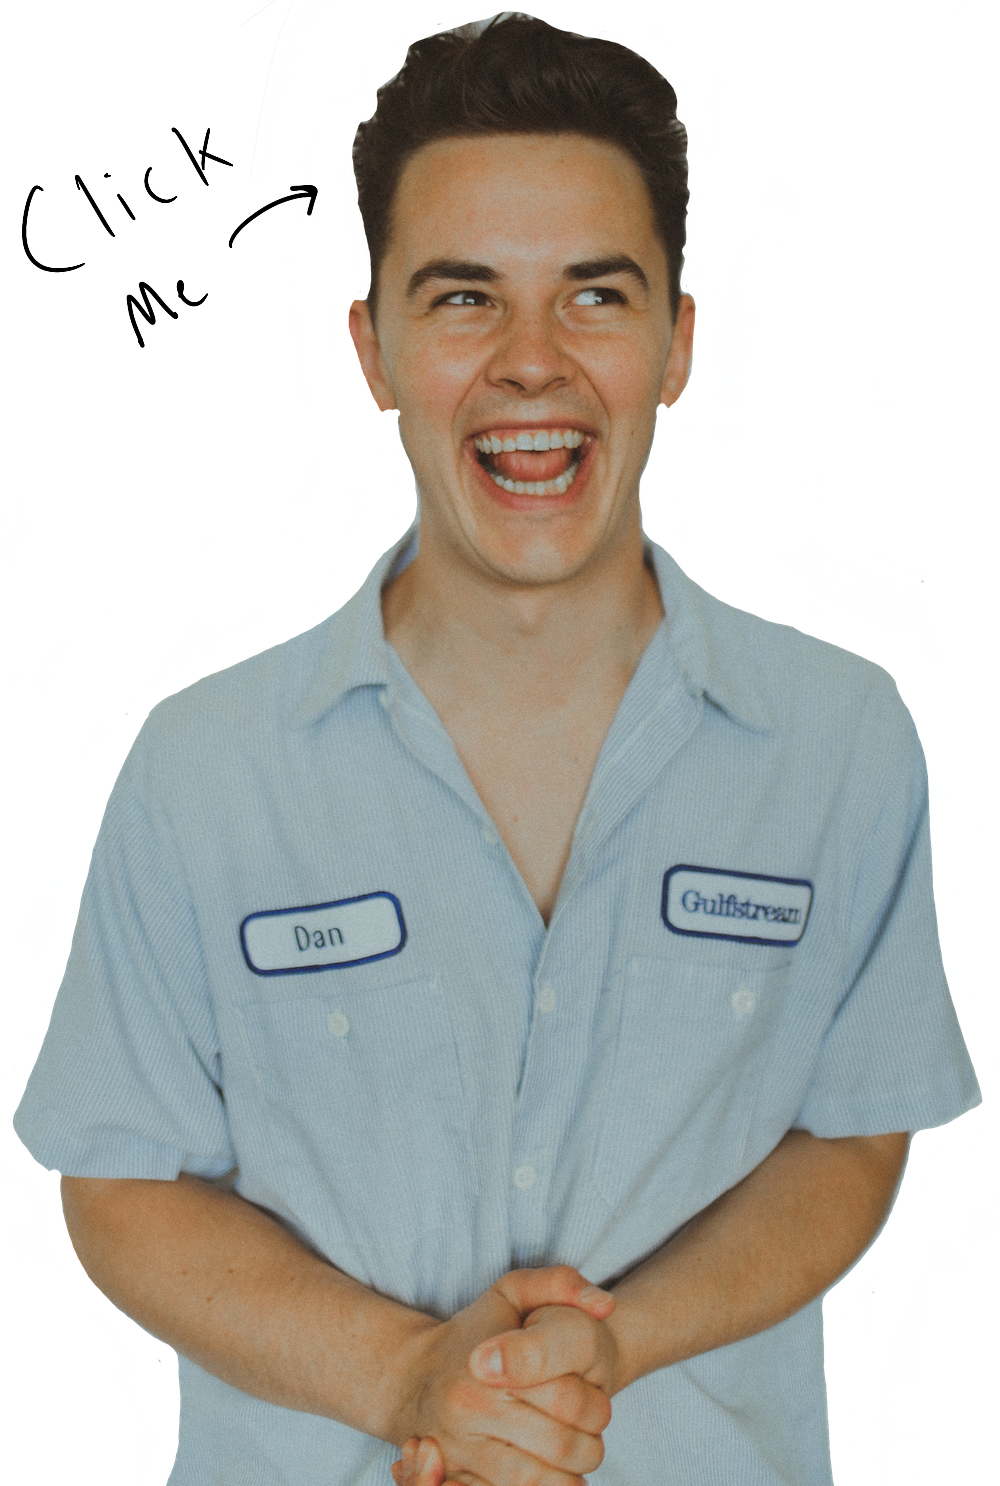
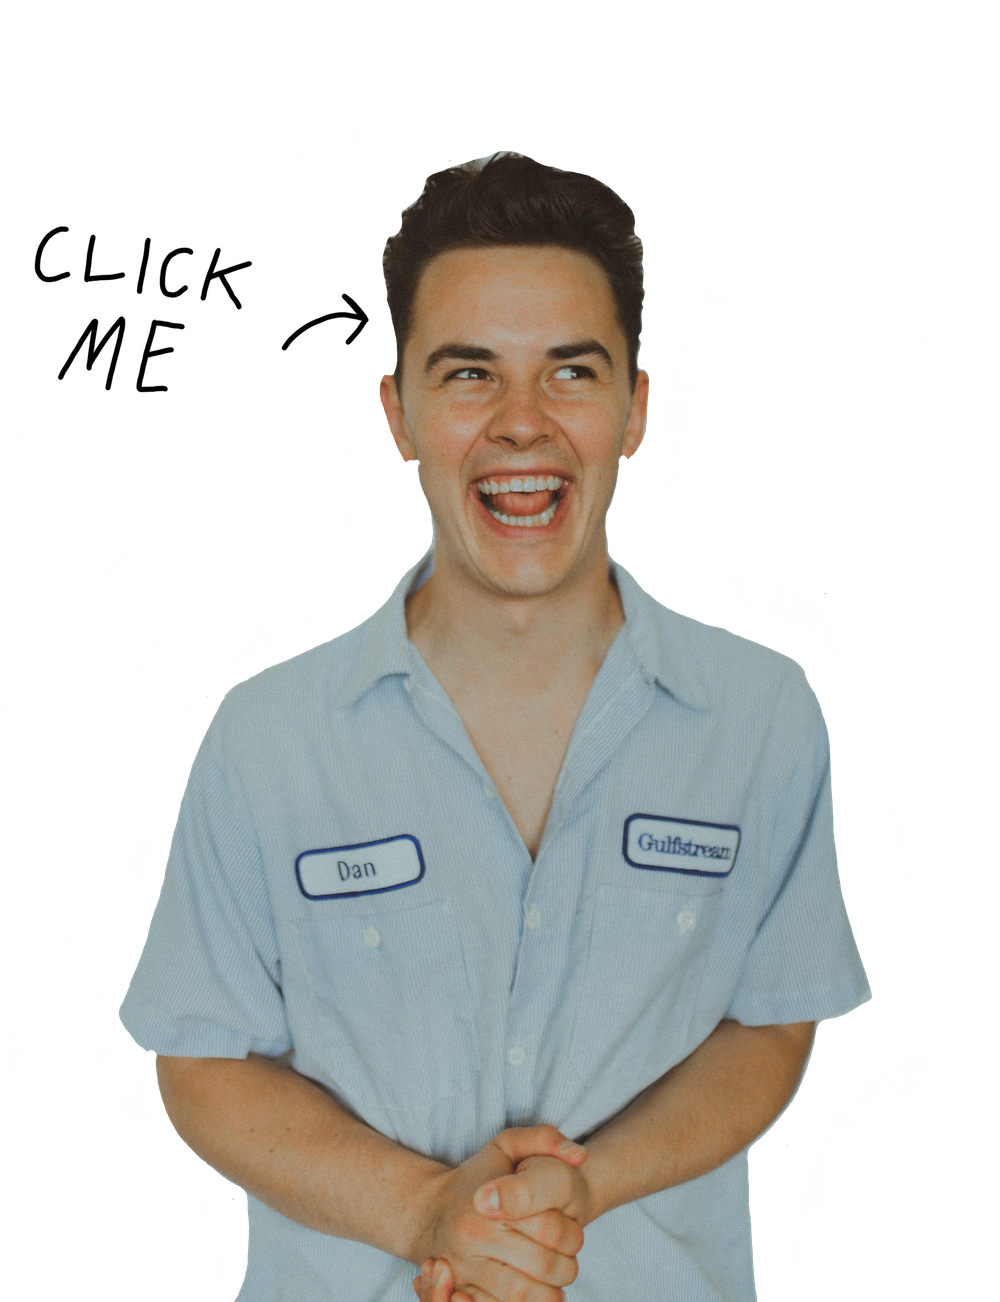
adding hand written notes, upating videos page and navbar

diff --git a/src/pages/Home/MainHeader/index.jsx b/src/pages/Home/MainHeader/index.jsx
@@ -1,14 +1,18 @@
-import React, { useState, useRef } from "react";
+import React, { useState, useRef, useEffect } from "react";
 import "./style.css";
 import styled from "styled-components";
-import { phoneOnly } from "../../../util/breakpoints";
+import { phoneOnly, tabletOnly } from "../../../util/breakpoints";
 import { MainTheme } from "../../../styles/colors";
 import Container from "react-bootstrap/Container";
 import MainVideo from "../MainVideo";
 import Col from "react-bootstrap/Col";
 import Row from "react-bootstrap/Row";
+import { useWindowSize } from "../../../util/hooks";
 import { motion } from "framer-motion";
 import MainBtn from "./MainBtn";
+import workImg from "../../../assets/images/work.png";
+import mobileWorkImg from "../../../assets/images/mobile-work3.png";
+import { phoneWidthMax } from "../../../util/breakpoints";
 
 const MainContainer = styled(Container)`
   text-align: center;
@@ -40,6 +44,22 @@ const Title = styled(motion.h1)`
    `)}
 `;
 
+const WorkImg = styled.img`
+  position: absolute;
+  height: 150px;
+  margin-top: 80px;
+  margin-left: -100px;
+  ${phoneOnly(`
+    height: 120px;
+    margin-left: -200px;
+    margin-top: 60px;
+`)}
+  ${tabletOnly(`
+height: 120px;
+margin-left: -250px;
+margin-top: 80px;
+`)}
+`;
 const SubTitle = styled(motion.h3)`
   font-size: 30px;
   color: ${MainTheme.cream};
@@ -76,7 +96,14 @@ margin-top:140px
 `;
 
 function MainHeader(props) {
+  const size = useWindowSize();
   const [videoOpen, toggleVideo] = useState(false);
+  const [isMobile, setIsMobile] = useState(size.width < phoneWidthMax);
+
+  useEffect(() => {
+    setIsMobile(size.width < 1200);
+  }, [size]);
+
   const aboutBtn = useRef(null);
   const watchBtn = useRef(null);
   function fix() {
@@ -154,8 +181,7 @@ function MainHeader(props) {
                 animate={{ x: [400, 0] }}
                 transition={{ duration: 0.5 }}
               >
-                {" "}
-                Comedy Writer, Improviser, and Stand-Up{" "}
+                Comedian, Writer, Actor
               </SubTitle>
             </Col>
           </Row>
@@ -188,6 +214,7 @@ function MainHeader(props) {
                     window.location = "/contact";
                   }}
                 />
+                <WorkImg src={isMobile ? mobileWorkImg : workImg} />
               </Col>
             </Row>
           </motion.div>

diff --git a/src/pages/About/index.jsx b/src/pages/About/index.jsx
@@ -8,12 +8,14 @@ import { MainTheme } from "../../styles/colors";
 import {
   phoneOnly,
   phoneWidthMax,
-  tabletAndPhoneOnly
+  tabletAndPhoneOnly,
+  tabletOnly
 } from "../../util/breakpoints";
 import { useWindowSize } from "../../util/hooks";
 import { HiOutlineMail, HiOutlinePhone } from "react-icons/hi";
 import { motion } from "framer-motion";
-import ColImg2 from "../../assets/images/colin_with_click.png";
+import clickImg from "../../assets/images/click_me.png";
+import ColImg3 from "../../assets/images/colin_transparent.png";
 import trippyimg from "../../assets/trippy6.svg";
 import audioFile from "../../assets/sounds/Oh-no.mov";
 
@@ -34,15 +36,18 @@ const BigContainer = styled.div`
   width: 100%;
   height: 100%;
   object-fit: cover;
-  z-index: -1;
+  z-index: -100;
 `;
 
 const MainText = styled.p`
+  margin: 0;
   color: black;
   font-size: 1em;
   padding-top: 50px;
+  z-index: -1;
+  background-color: white;
   ${phoneOnly(`
-    padding-top: 30px;
+    padding-top: 0px;
     text-align: center;
   `)}
 `;
@@ -51,15 +56,29 @@ const MainImg = styled(motion.img)`
   max-height: 700px;
   position: fixed;
   margin: auto;
+  margin-bottom: 0px;
   display: block;
   ${tabletAndPhoneOnly(`
   position: relative;
         height: 300px;
     `)}
 `;
+
+const ClickImg = styled.img`
+  height: 100px;
+  position: absolute;
+  ${phoneOnly(`
+    height:70px;
+  `)}
+  ${tabletOnly(`
+    margin-left: 100px;
+  `)}
+`;
+
 const LinkGroup = styled.p`
-  margin-top: 10px;
+  padding-top: 10px;
   font-size: 20px;
+  background-color: white;
   ${phoneOnly(`
     text-align: center;
   `)}
@@ -95,10 +114,11 @@ function About() {
 
         <Row className="justify-content-xl-center">
           <Col xl={6}>
+            <ClickImg src={clickImg} />
             <MainImg
-              src={ColImg2}
+              src={ColImg3}
               onClick={() => playAudio()}
-              animate={{ scale: [0, 1.4, 1] }}
+              animate={isMobile ? { y: [240, 0] } : { y: [400, 0] }}
             />
           </Col>
           <Col xl={6}>
@@ -125,6 +145,7 @@ function About() {
               size={50}
               centered={isMobile}
               marginleft={!isMobile && "-20px"}
+              style={{ backgroundColor: "white", margin: 0 }}
             />
           </Col>
         </Row>

diff --git a/src/pages/Video/SingleVideo/index.jsx b/src/pages/Video/SingleVideo/index.jsx
@@ -5,14 +5,16 @@ import { phoneOnly } from "../../../util/breakpoints";
 import YouTube from "react-youtube";
 
 const VideoContainer = styled.div`
-  width: 560px;
-  height: 315px;
+  width: 500px;
+  height: 240px;
   float: none;
   clear: both;
-  margin: 2px auto;
+  margin: 5px auto;
   ${phoneOnly(`
     width: 100%;
     height: 120%;
+    margin-bottom:10px;
+    padding: 10px;
     
 `)}
 `;
@@ -22,7 +24,7 @@ function onReady(event) {
 }
 function SingleVideo(props) {
   const opts = {
-    height: "300",
+    height: "240",
     width: "100%",
     playerVars: {
       playsinline: 1
@@ -30,7 +32,7 @@ function SingleVideo(props) {
   };
   return (
     <Col xl={6}>
-      <VideoContainer style={{ padding: 30, marginBottom: 40 }}>
+      <VideoContainer>
         <YouTube videoId={props.id} opts={opts} onReady={onReady} />
       </VideoContainer>
     </Col>

diff --git a/src/pages/Home/MainHeader/MainBtn/index.jsx b/src/pages/Home/MainHeader/MainBtn/index.jsx
@@ -2,6 +2,7 @@ import React from "react";
 import styled from "styled-components";
 import { MainTheme } from "../../../../styles/colors";
 import { motion } from "framer-motion";
+import { phoneOnly } from "../../../../util/breakpoints";
 
 const HireMeBtnContainer = styled(motion.button)`
   background-color: transparent;
@@ -23,6 +24,10 @@ const HireMeBtnContainer = styled(motion.button)`
     border: 2px solid ${MainTheme.lightBlue};
     outline: none;
   }
+  ${phoneOnly(`
+    font-size: 16px;
+    letter-spacing: 0.3em;
+  `)}
 `;
 
 const whileHoverStyle = {

diff --git a/src/util/breakpoints.js b/src/util/breakpoints.js
@@ -8,7 +8,13 @@ export const phoneOnly = cssRulesStringBlock => `
 `;
 
 export const tabletAndPhoneOnly = cssRulesStringBlock => `
-    @media (max-width: ${1200}px ) {
+    @media (max-width: ${tabletWidthMax}px ) {
+        ${cssRulesStringBlock}
+    }
+`;
+
+export const tabletOnly = cssRulesStringBlock => `
+    @media (max-width: ${tabletWidthMax}px ) and (min-width: ${phoneWidthMax}px ) {
         ${cssRulesStringBlock}
     }
 `;

diff --git a/src/components/NavComponent/index.jsx b/src/components/NavComponent/index.jsx
@@ -64,7 +64,11 @@ function NavComponent() {
       sticky="top"
       expand="md"
       className="main-nav"
-      style={navOpen ? { background: "white" } : { background: "transparent" }}
+      style={
+        navOpen || window.location.pathname != "/"
+          ? { background: "white" }
+          : { background: "transparent" }
+      }
     >
       <MainContainer>
         <Navbar.Brand href="/"> Colin Dowda </Navbar.Brand>

diff --git a/src/pages/Video/index.jsx b/src/pages/Video/index.jsx
@@ -56,8 +56,7 @@ function Video() {
   if (youtubeIds.length <= 0) return null;
   return (
     <MainContainer>
-      <Title>Videos</Title>
-      <Row>
+      <Row style={{ marginTop: 20 }}>
         {youtubeIds.map(id => {
           return <SingleVideo id={id} />;
         })}
